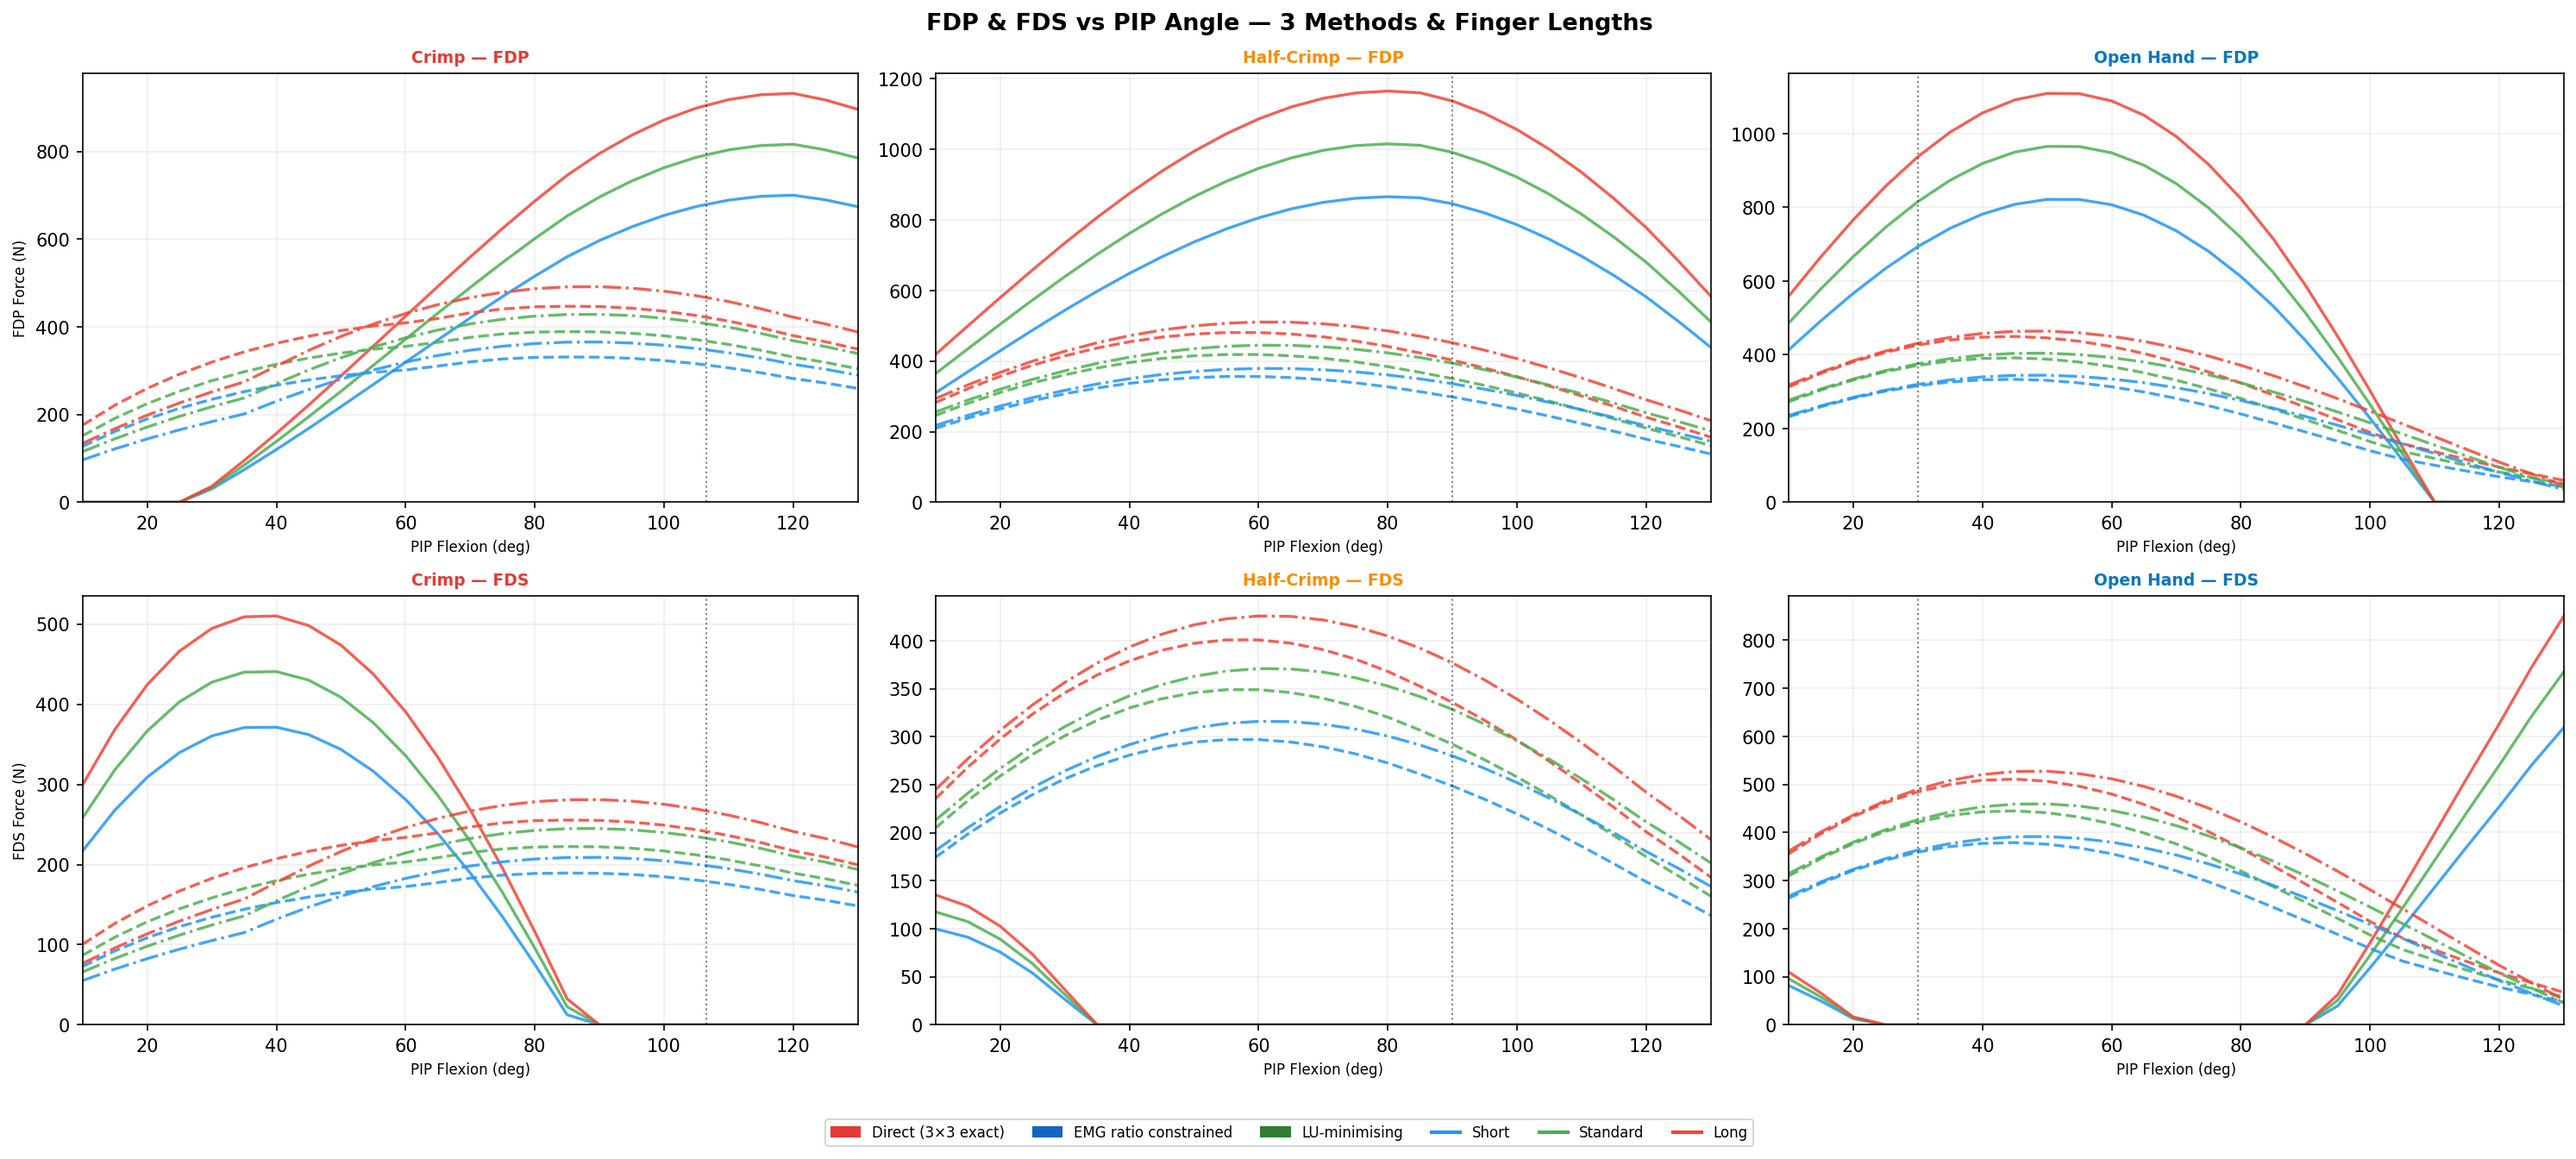
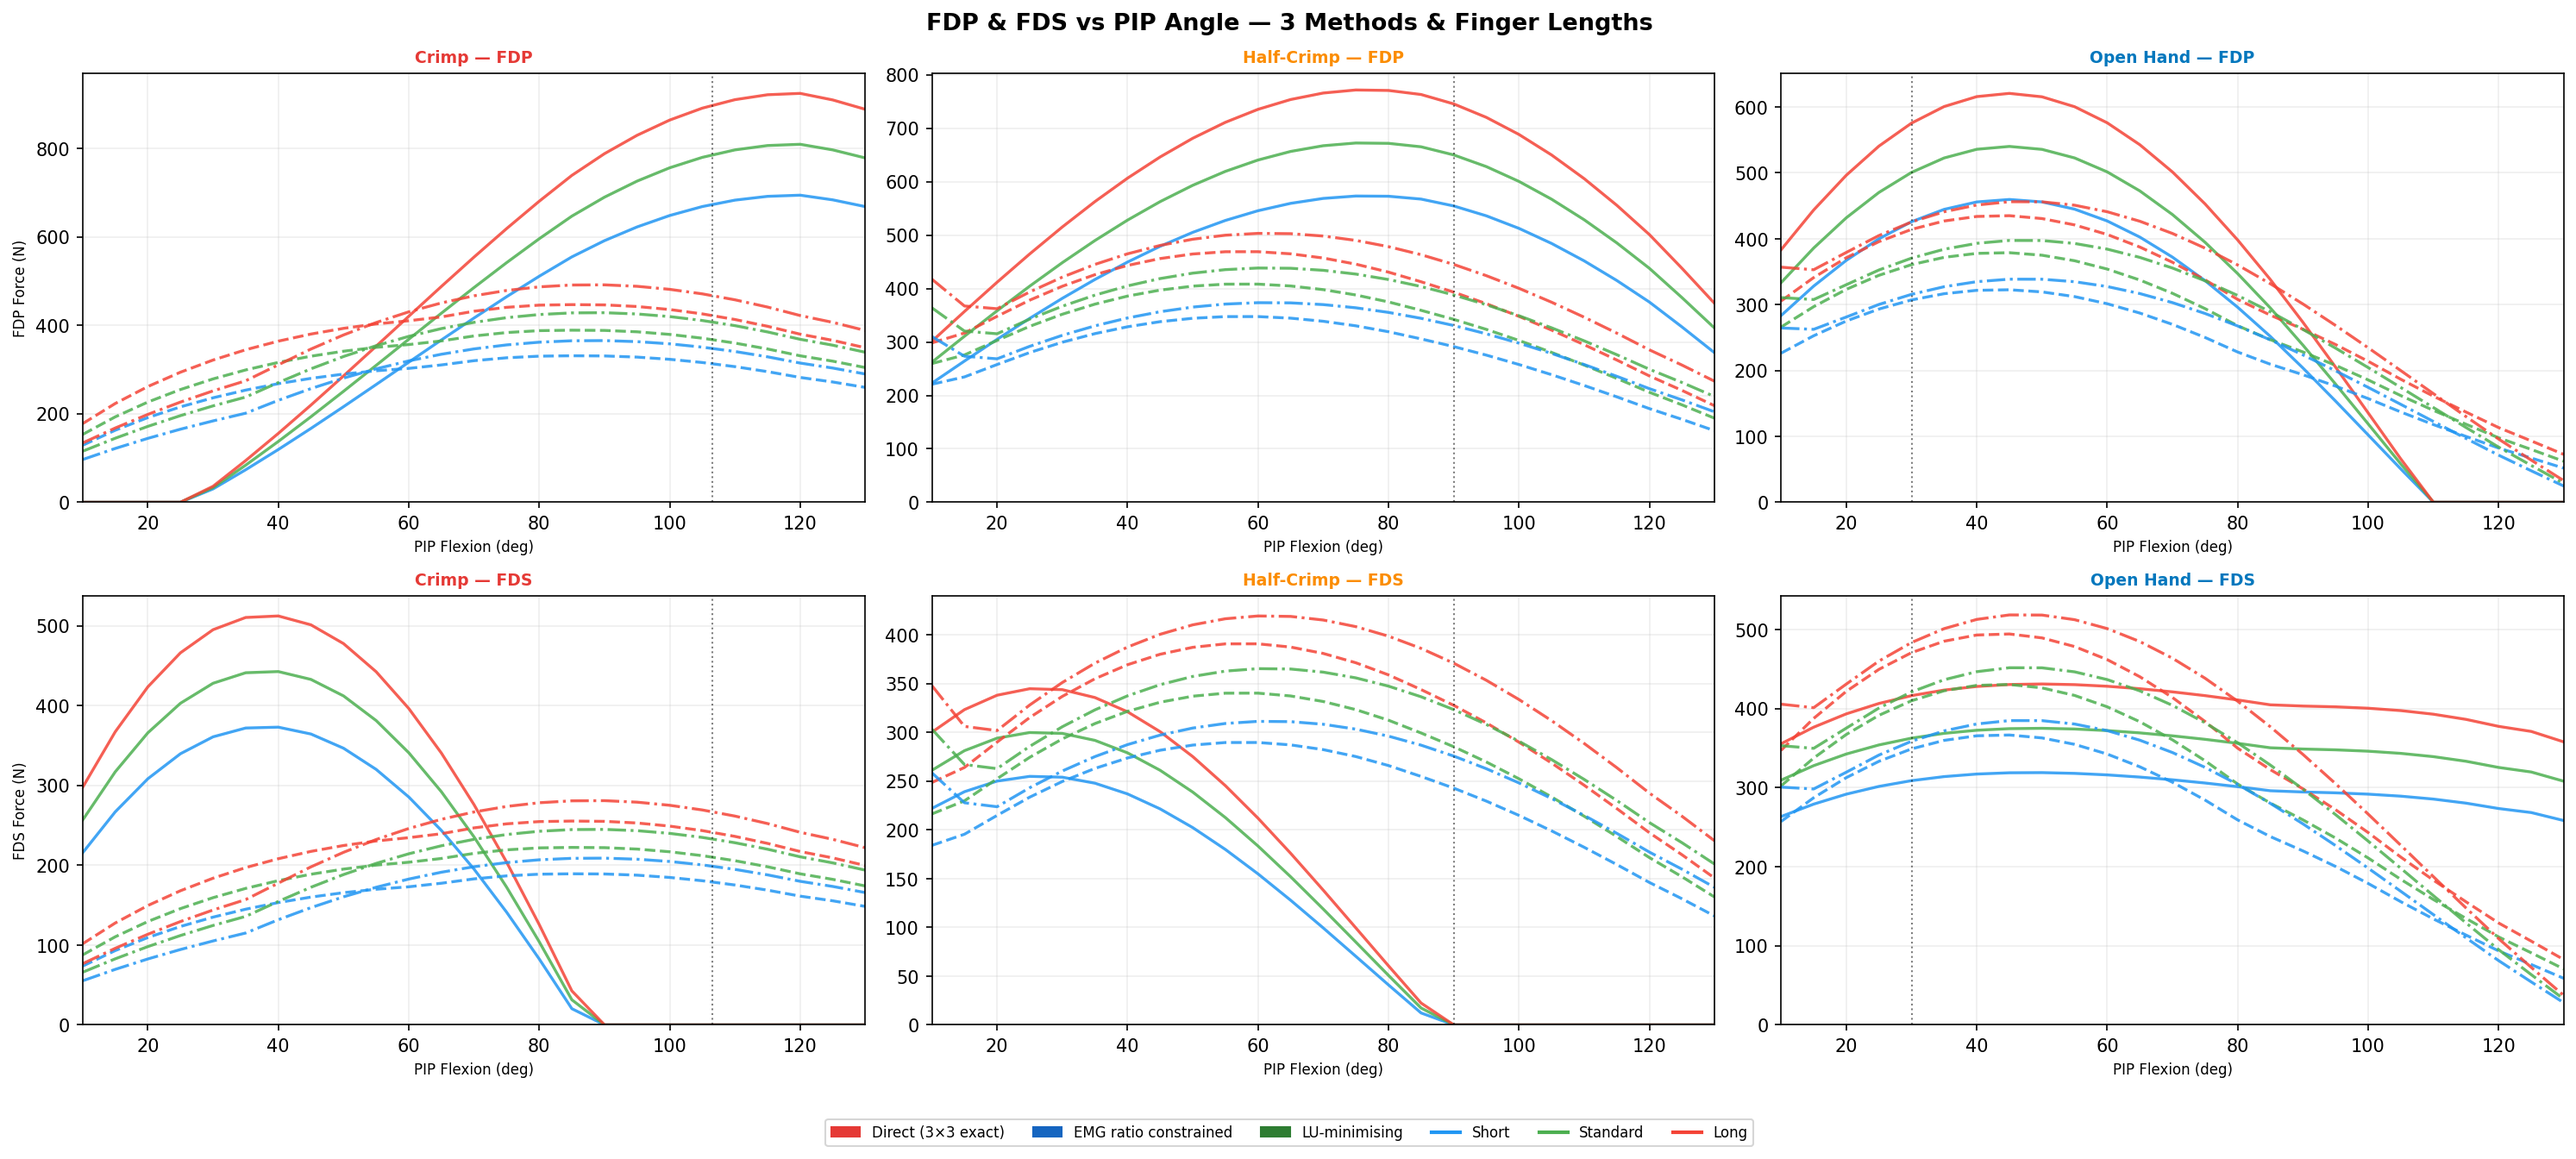
Fix: revert FDP_DIP to An1983 in peerj mode — PeerJ 4.7mm incompatible with 3-DOF solver
Root cause: PeerJ FDP_DIP=4.7mm was calibrated for a 6-muscle system
where RI+UI intrinsics contribute ~25% of DIP extension moment via the
extensor mechanism. In our 3-DOF model (FDP, FDS, LU only), FDP must
handle the entire DIP moment alone.

Consequence of 4.7mm: FDP gets forced unrealistically high to balance
tau_DIP. Since FDP_PIP/FDP_DIP (2.54) > tau_PIP/tau_DIP (2.35-2.42),
FDP's PIP contribution exceeds the external PIP moment, leaving negative
room for FDS -> clamped to 0.

Affected grips: HalfCrimp (FDS=-50N), OpenHand (FDS=-119N)
FullCrimp was unaffected (tau_PIP/tau_DIP=3.20 > ratio_MA=2.18)

Fix: FDP_DIP = 6.00 + 0.045*theta (An1983) in peerj mode
All other PeerJ-calibrated values (FDP_PIP, FDP_MCP, FDS_*, LU_*, EDC_*)
are architecturally compatible and remain.

This is a known limitation of 3-DOF model transplanting individual
moment arms from a 6-muscle model: the system is coupled and a single
arm cannot be swapped in isolation.

Updated: docstring, validation_peerj_iter16b.txt, all 11 figures

diff --git a/climbing_finger_3d.py b/climbing_finger_3d.py
@@ -290,7 +290,8 @@ def moment_arms(grip):
       Linear fits to moment arms computed from cadaver-specific tendon
       path points (Geometry_Middle_Cal_Hum/) at 4 postures (R2>=0.99).
       Iteration 16 extends to ALL muscles (LU, EDC, not just FDP/FDS):
-        - FDP: DIP 37% smaller, MCP 24% larger vs An1983
+        - FDP: DIP uses An1983 (PeerJ 4.7mm incompatible with 3-DOF: absent RI/UI intrinsics)
+          MCP 24% larger vs An1983
         - FDS: MCP 49% larger at theta=0 vs An1983
         - LU:  DIP/PIP via extensor mechanism fractions (RB=0.621, ES=0.379)
                MCP 9.02+0.111theta (+50% vs An1983 fixed 6.0)
@@ -307,7 +308,7 @@ def moment_arms(grip):
         # Fits from Geometry_Middle_Cal_Hum path points at 4 postures (R2>=0.99)
         # Iteration 16: extends calibration to LU (extensor mechanism) and EDC
         return dict(
-            FDP_DIP=max( 4.70 - 0.011*np.clip(td,-30,90),  2.0),
+            FDP_DIP=max( 6.00 + 0.045*np.clip(td,-30,90),  2.0),  # An1983: PeerJ 4.7mm incompatible with 3-DOF solver (RI/UI intrinsics absent)
             FDP_PIP=max( 8.24 + 0.050*np.clip(tp,  0,120), 4.0),
             FDP_MCP=max( 9.89 + 0.087*np.clip(tm,-30,90),  6.0),
             FDS_PIP=max( 4.44 + 0.050*np.clip(tp,  0,120), 3.0),
